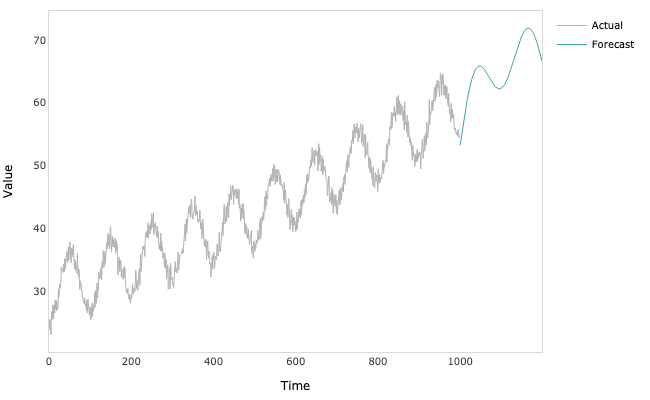
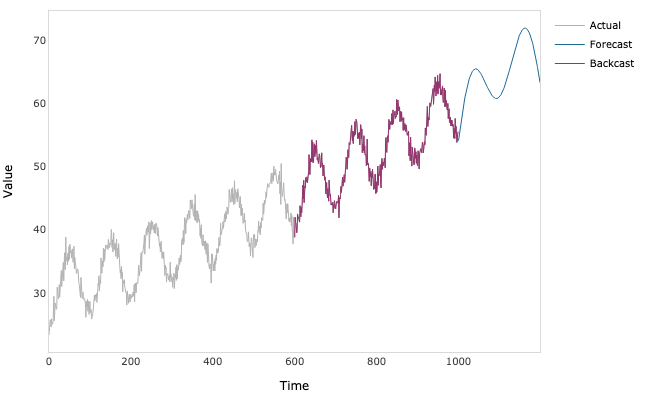
Update example

diff --git a/nbeats_tensorflow/model.py b/nbeats_tensorflow/model.py
@@ -15,9 +15,9 @@ class NBeats():
                  target,
                  forecast_period,
                  lookback_period,
-                 num_trend_coefficients=3,
+                 num_trend_coefficients=4,
                  num_seasonal_coefficients=5,
-                 num_generic_coefficients=7,
+                 num_generic_coefficients=6,
                  hidden_units=100,
                  stacks=['trend', 'seasonality'],
                  num_blocks_per_stack=3,
@@ -42,14 +42,14 @@ class NBeats():
 
         num_trend_coefficients: int.
             Number of basis expansion coefficients of the trend block. This is the number of polynomial terms
-            used for modelling the trend. The default is 3.
+            used for modelling the trend. The default is 4.
 
         num_seasonal_coefficients: int.
             Number of basis expansion coefficients of the seasonality block. This is the number of Fourier terms
             used for modelling the seasonality. The default is 5.
 
         num_generic_coefficients: int.
-            Number of basis expansion coefficients of the generic block. The default is 7.
+            Number of basis expansion coefficients of the generic block. The default is 6.
 
         hidden_units: int.
             Number of hidden units of each of the 4 layers of the fully connected stack. The default is 100.

diff --git a/nbeats_tensorflow/plots.py b/nbeats_tensorflow/plots.py
@@ -74,7 +74,7 @@ def plot_results(df):
             name='Forecast',
             mode='lines',
             line=dict(
-                color='#38A6A5',
+                color='#1D6996',
                 width=1
             )
         )
@@ -89,7 +89,7 @@ def plot_results(df):
                 name='Backcast',
                 mode='lines',
                 line=dict(
-                    color='#E17C05',
+                    color='#94346E',
                     width=1
                 )
             )
@@ -99,3 +99,5 @@ def plot_results(df):
 
     return fig
 
+from palettable.cartocolors.qualitative import Prism_10
+Prism_10.hex_colors

diff --git a/README.MD b/README.MD
@@ -1,3 +1,20 @@
+## N-BEATS TensorFlow
+
+TensorFlow (Python) implementation of univariate time series forecasting model introduced in Oreshkin, B. N., Carpov, D.,
+Chapados, N., & Bengio, Y. (2019). N-BEATS: Neural basis expansion analysis for interpretable time series forecasting.
+[arXiv:1905.10437](https://arxiv.org/abs/1905.10437).
+
+### Dependencies
+```bash
+pandas==1.3.4
+numpy==1.19.5
+tensorflow==2.6.0
+plotly==5.3.1
+```
+
+### Usage
+
+```python
 import numpy as np
 from nbeats_tensorflow.model import NBeats
 from nbeats_tensorflow.plots import plot_results
@@ -26,13 +43,20 @@ model.fit(
     batch_size=64,
     learning_rate=0.001
 )
+```
 
+```python
 # Plot the in-sample predictions
 predictions = model.predict(index=800, return_backcast=True)
 predictions_ = plot_results(predictions)
 predictions_.write_image('predictions.png', width=650, height=400)
-
+```
+![predictions](example/predictions.png)
+ 
+```python
 # Plot the out-of-sample forecasts
 forecasts = model.forecast(return_backcast=True)
 forecasts_ = plot_results(forecasts)
 forecasts_.write_image('forecasts.png', width=650, height=400)
+```
+![forecasts](example/forecasts.png)
